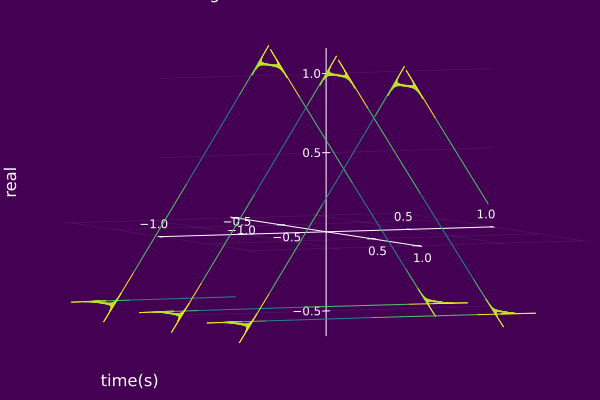
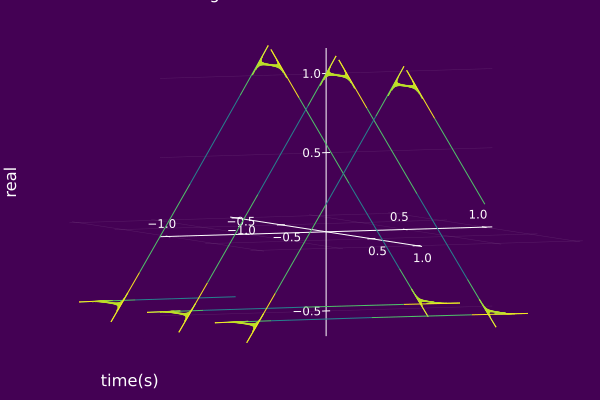
Update Fourier page

diff --git a/docs/src/basicModels/Fourier.md b/docs/src/basicModels/Fourier.md
@@ -1,7 +1,7 @@
 # Basic Signal Models
 
 ## Fourier Series
-Consider a component set consisting of a set of harmonicly related SHCs
+Consider a component set consisting of a set of harmonically related SHCs
 
 $\mathscr{S}\triangleq\left\{\cdots,\mathscr{C}_{-1},\mathscr{C}_0,\mathscr{C}_1,\cdots\right\},~\mathscr{C}_k = \left\{a_k,k\omega_0, \phi_k\vphantom{0^0}\right\},~k = 0,\pm 1,\pm 2,\ldots,\pm\infty .$
 
@@ -34,7 +34,7 @@ Consider a signal $z(t)$ which consists of a [Dirac delta](https://en.wikipedia.
 
 $z(t) = \sum\limits_{k=-\infty}^{\infty}\delta(t-kT)$
 
-We can represent this signal with a component set consisting of a set of harmonicly related SHCs
+We can represent this signal with a component set consisting of a set of harmonically related SHCs
 
 $\mathscr{S}=\left\{\cdots,\mathscr{C}_{-1},\mathscr{C}_0,\mathscr{C}_1,\cdots\right\},~\mathscr{C}_k = \left\{a_k,k\omega_0, \phi_k\vphantom{0^0}\right\},~k = 0,\pm 1,\pm 2,\ldots$
 
@@ -169,7 +169,7 @@ exp(-j*k*2π)+exp(j*4π/3)*exp(-j*k*4π/3))/(j*k*2π) )
 kInds = -150:150
 𝑆 = fourierSeries(T, aₖ, kInds)
 z = AMFMmodel(𝑆)
-plot(z; timeaxis=-1.0:0.001:1.0, ylims=(1.0,1.0),camera=(60,15))
+plot(z; timeaxis=-1.0:0.001:1.0, camera=(60,15))
 ```
 ![](https://raw.githubusercontent.com/NMSU-ISA/ISA/master/docs/src/assets/IS_exFourier7.png)
 
